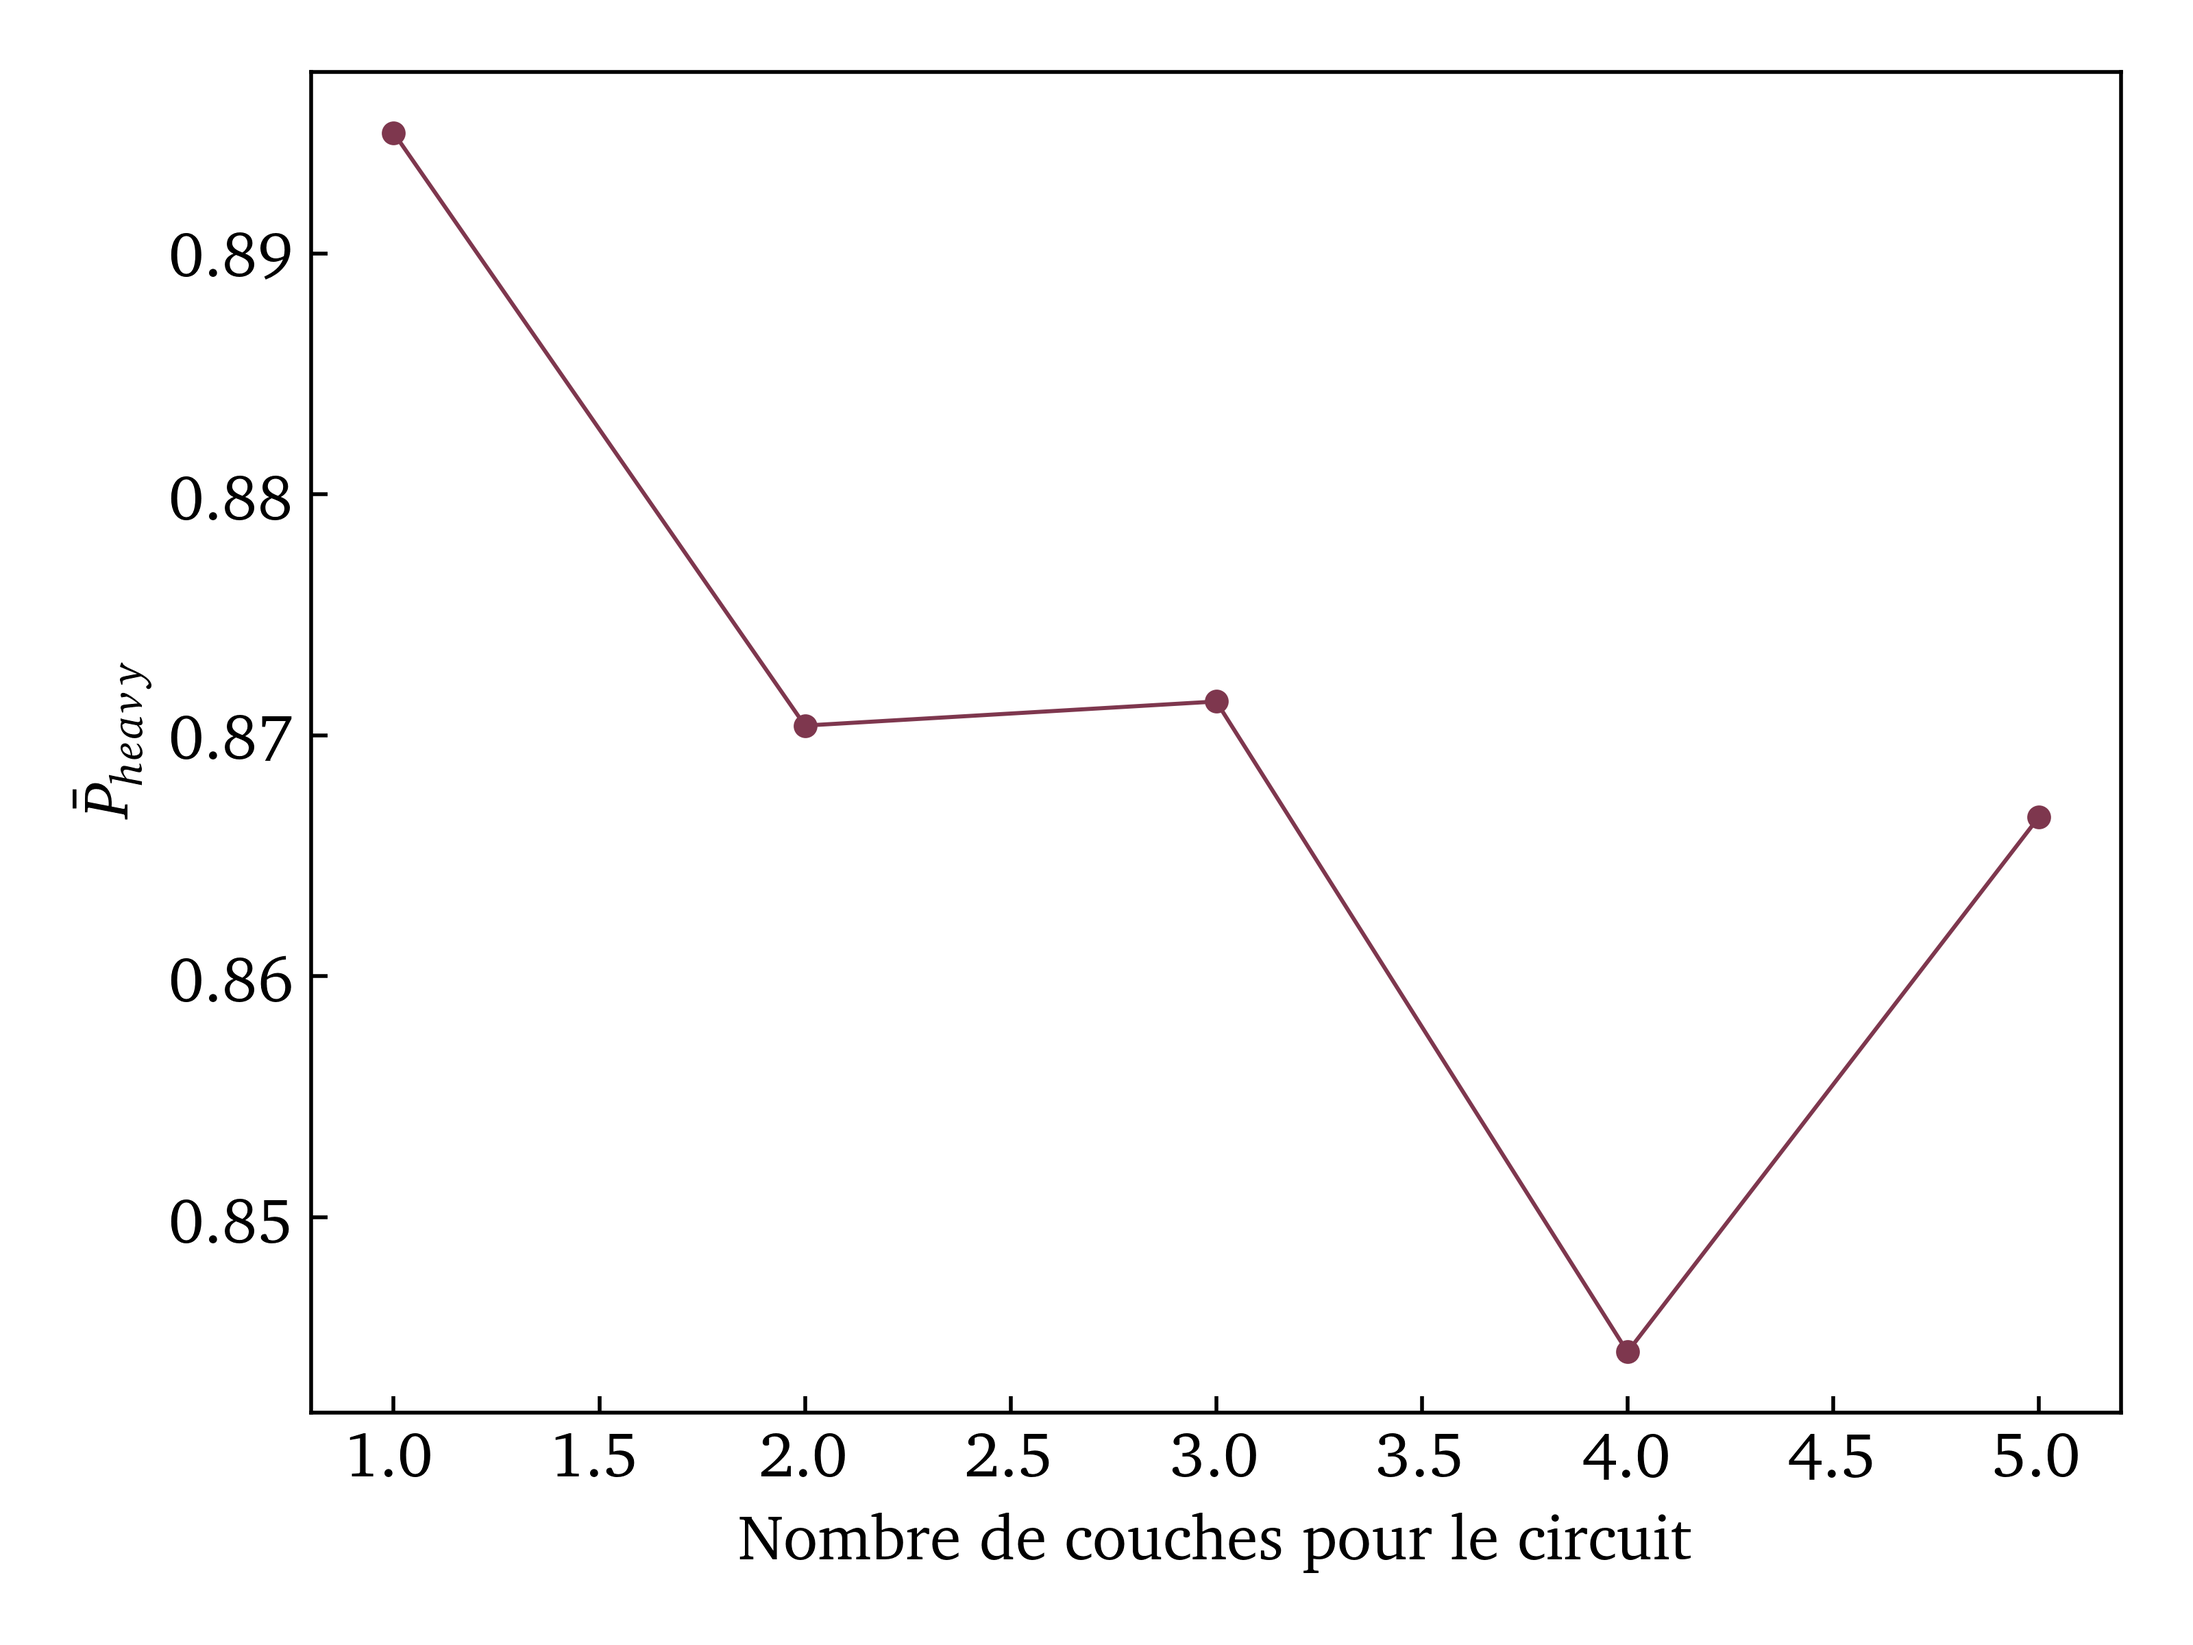
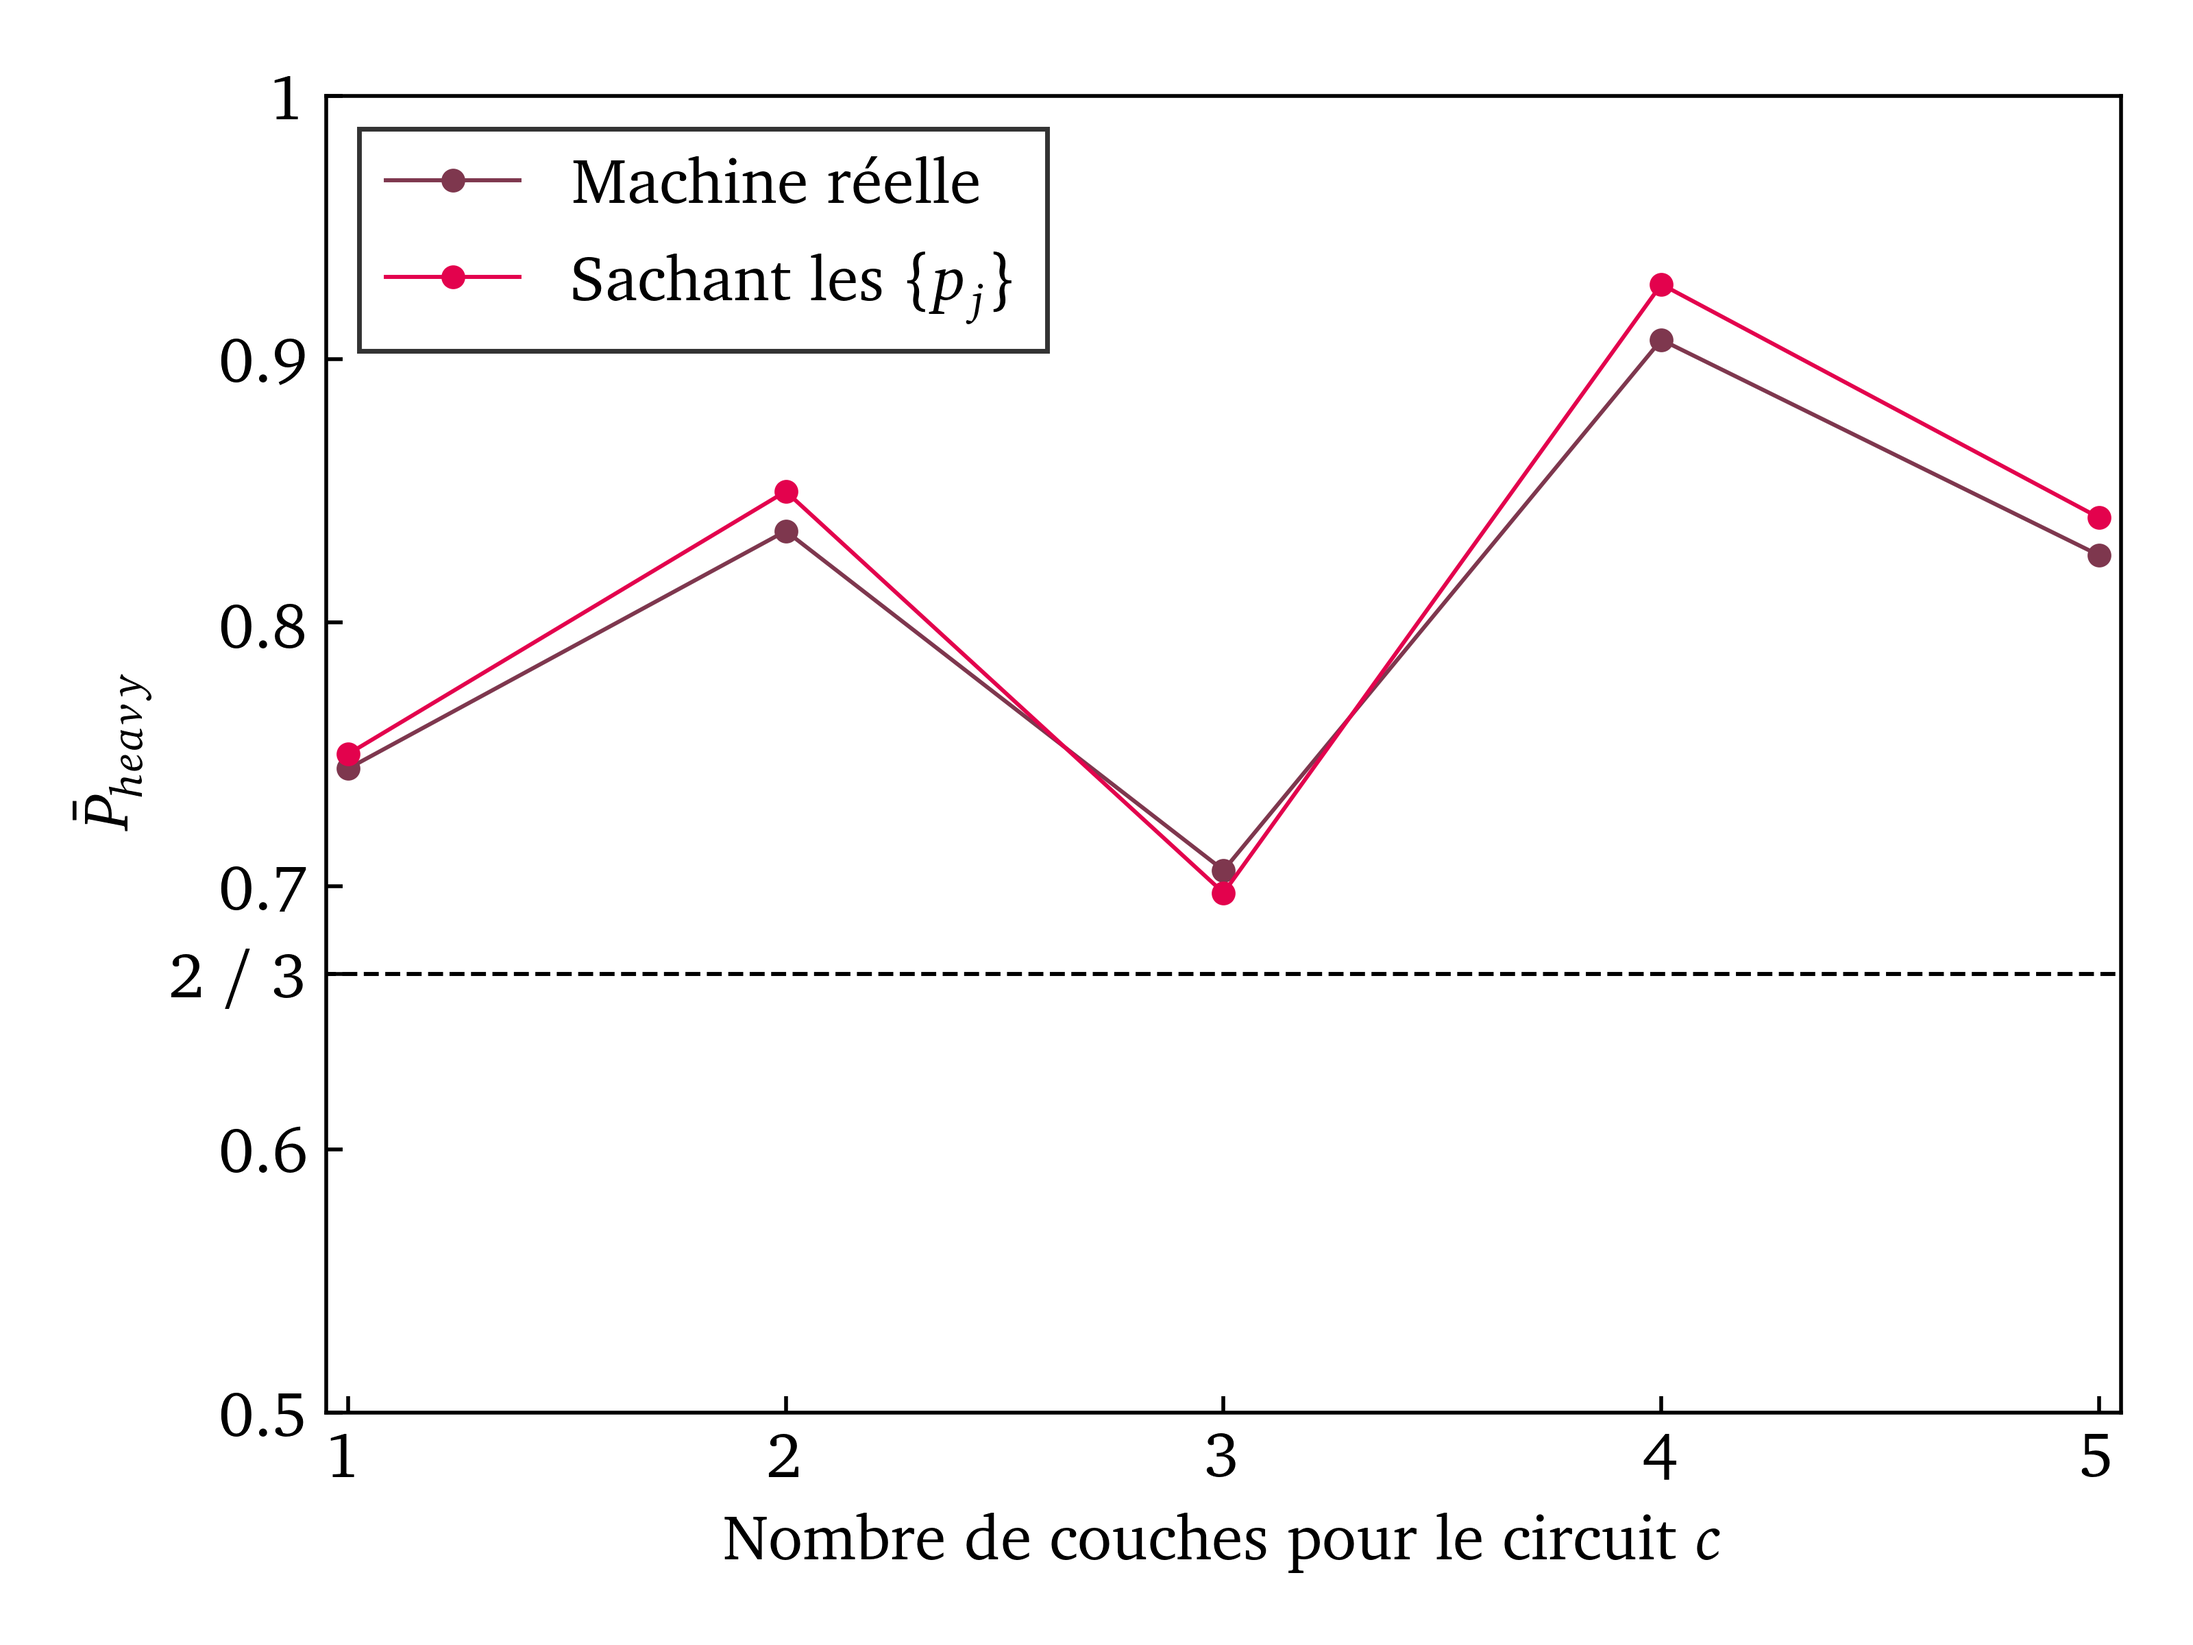
Corrected problem on plotting data for question 16.5

diff --git a/tools_for_questions/question16.py b/tools_for_questions/question16.py
@@ -220,7 +220,7 @@ def caracterise_mean_P_heavy(
             generated_noise
         )
         all_mean_qtm_P_heavys.append(temp_mean_P_heavy[2])
-        all_mean_class_P_heavys.append(temp_mean_P_heavy[1])
+        all_mean_class_P_heavys.append(temp_mean_P_heavy[0])
     return all_mean_qtm_P_heavys, all_mean_class_P_heavys
 
 
@@ -247,8 +247,16 @@ def plot_caract_mean_P_heavy(
         color = "#e3024d",
         label = r"Sachant les $\{p_j\}$"
     )
+    plt.yticks(
+        [0.5, 0.6, 2 / 3, 0.7, 0.8, 0.9, 1], 
+        ["0.5", "0.6", "2 / 3", "0.7", "0.8", "0.9", "1"]
+    )
+    plt.hlines(2 / 3, 0, max_circ_layers + 1, color = "k", ls = "--")
     plt.xlabel(r"Nombre de couches pour le circuit $c$")
     plt.ylabel(r"$\bar{P}_{heavy}$")
+    plt.xlim(0.95, max_circ_layers + 0.05)
+    plt.ylim(0.5, 1)
+    plt.legend()
     plt.savefig(
         f"{os.path.abspath(os.getcwd())}/figures/question16_figs/" + 
         "question16_caract.png"
@@ -289,7 +297,7 @@ def run_q16_5_bonus(params: dict) -> None:
     else:
         params["with_noise_or_not"] = False
 
-    all_mean_P_heavys = caracterise_mean_P_heavy(
+    all_mean_qtm_P_heavys, all_mean_class_P_heavys = caracterise_mean_P_heavy(
         params["max_c_q16_5_bonus"],
         params["personnal_token"], 
         params["quantum_computer"],
@@ -298,7 +306,11 @@ def run_q16_5_bonus(params: dict) -> None:
         params["n_q16_5_bonus"],
         params["with_noise_or_not"]
     )
-    plot_caract_mean_P_heavy(params["max_c_q16_5_bonus"], all_mean_P_heavys)
+    plot_caract_mean_P_heavy(
+        params["max_c_q16_5_bonus"], 
+        all_mean_qtm_P_heavys, 
+        all_mean_class_P_heavys
+    )
     print("\n Question #16.5 done. \n")
     return
 

diff --git a/main_project.py b/main_project.py
@@ -70,15 +70,15 @@ params_q12 = {
 }
 
 params_q16 = {
-    "n_q16": 6,
+    "n_q16": 10,
     "n_q16_5_bonus": 10,
-    "N_circuits_q16": 1,
+    "N_circuits_q16": 50,
     "N_circuits_q16_5_bonus": 50,
-    "N_tirages_q16": 10000,
-    "N_tirages_q16_5_bonus": 20000,
-    "c_q16": 1,
-    "max_c_q16_5_bonus": 5,
[1 lines of base64/hex data omitted]
+    "N_tirages_q16": 15000,
+    "N_tirages_q16_5_bonus": 15000,
+    "c_q16": 5,
+    "max_c_q16_5_bonus": 10,
+    "personnal_token": "insert_here",
     "quantum_computer": "ibmq_qasm_simulator"
 }
 
